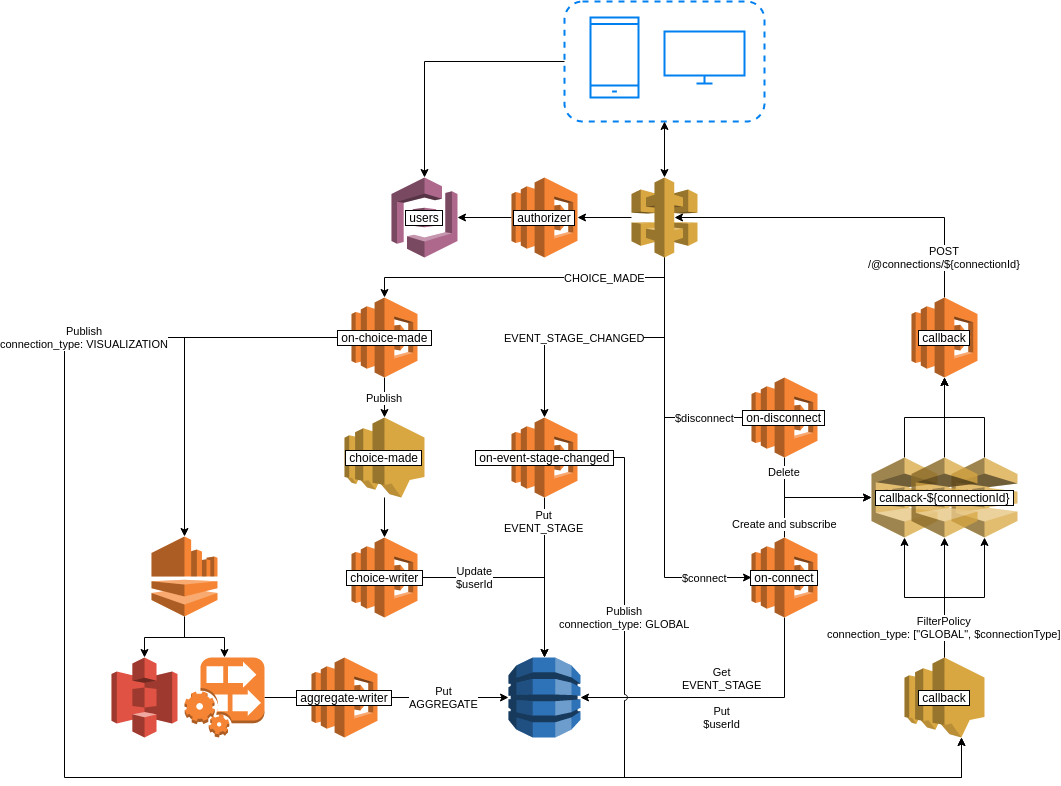
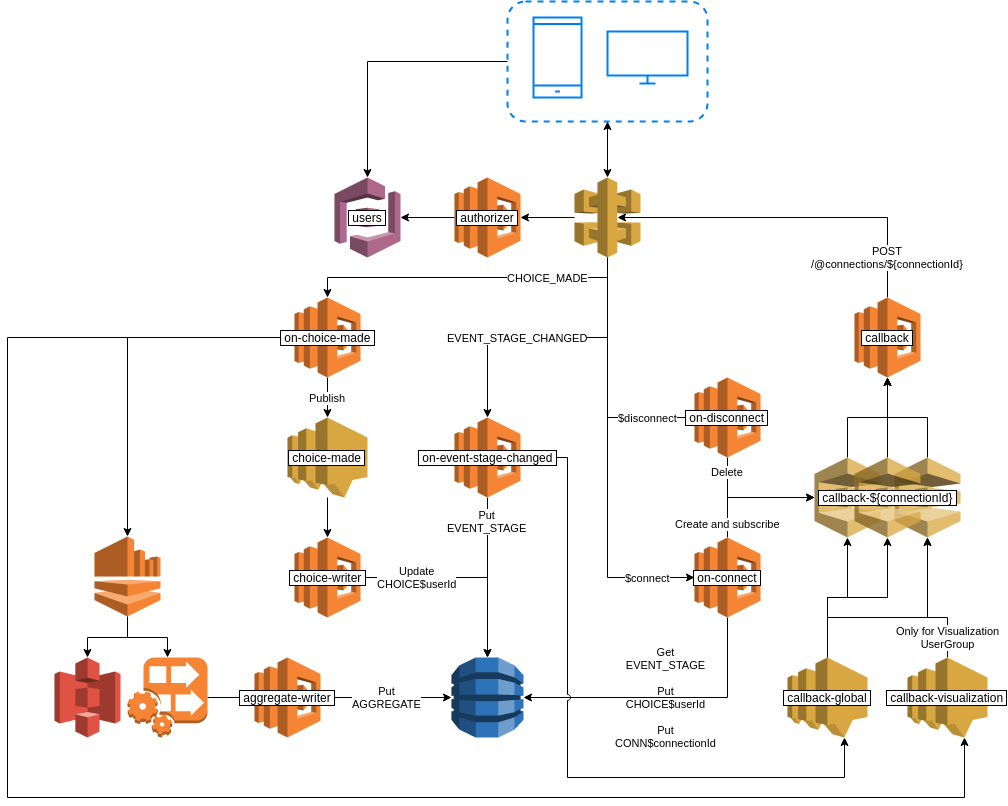
Updated architecture and docs

diff --git a/docs/Usage/Concert/Concert.md b/docs/Usage/Concert/Concert.md
@@ -27,8 +27,11 @@ The websocket API will also be used to guide the mobile app through the concert 
 On connection, the server will respond with the current event stage. This can be used to ensure the app is in the correct state when reconnecting after being disconnected.
 ```js
 {
-  stageId: String,    // The ID of the current stage
-  ...                 // Other attributes of the stage
+  event: 'CONNECTED',
+  data: {
+    stageId: String,    // The ID of the current stage
+    ...                 // Other attributes of the stage
+  },
 }
 ```
 
@@ -140,8 +143,7 @@ The event body here is the same as the CHOICE_MADE event [sent by the mobile app
 ### User choices
 ```js
 {
-  recordType: 'CHOICE',
-  recordId: userId,
+  recordId: ['CHOICE', userId].join('$'),
   colors: {
     [timestamp]: String,    // COLOR_RED | COLOR_BLUE | ...
     ...
@@ -161,7 +163,6 @@ The event body here is the same as the CHOICE_MADE event [sent by the mobile app
 ### Aggregated choices
 ```js
 {
-  recordType: 'CHOICE',
   recordId: 'AGGREGATE',
   colors: {
     [timestamp]: {
@@ -190,8 +191,7 @@ The event body here is the same as the CHOICE_MADE event [sent by the mobile app
 ### Connection information
 ```js
 {
-    recordType: 'CONNECTION',
-    recordId: connectionId,
+    recordId: ['CONN', connectionId].join('$'),
     lambdaMappingUuid: String,
     snsSubscriptionArn: String,
     sqsQueueUrl: String,
@@ -202,7 +202,6 @@ The event body here is the same as the CHOICE_MADE event [sent by the mobile app
 ### Event stage
 ```js
 {
-  recordType: 'EVENT_INFO',
   recordId: 'EVENT_STAGE',
   stageId: String,
   ...                       // Other attributes of the stage
@@ -212,7 +211,6 @@ The event body here is the same as the CHOICE_MADE event [sent by the mobile app
 ### Song information
 ```js
 {
-  recordType: 'EVENT_INFO',
   recordId: 'SONG_LIST'
   songs: [
     {
